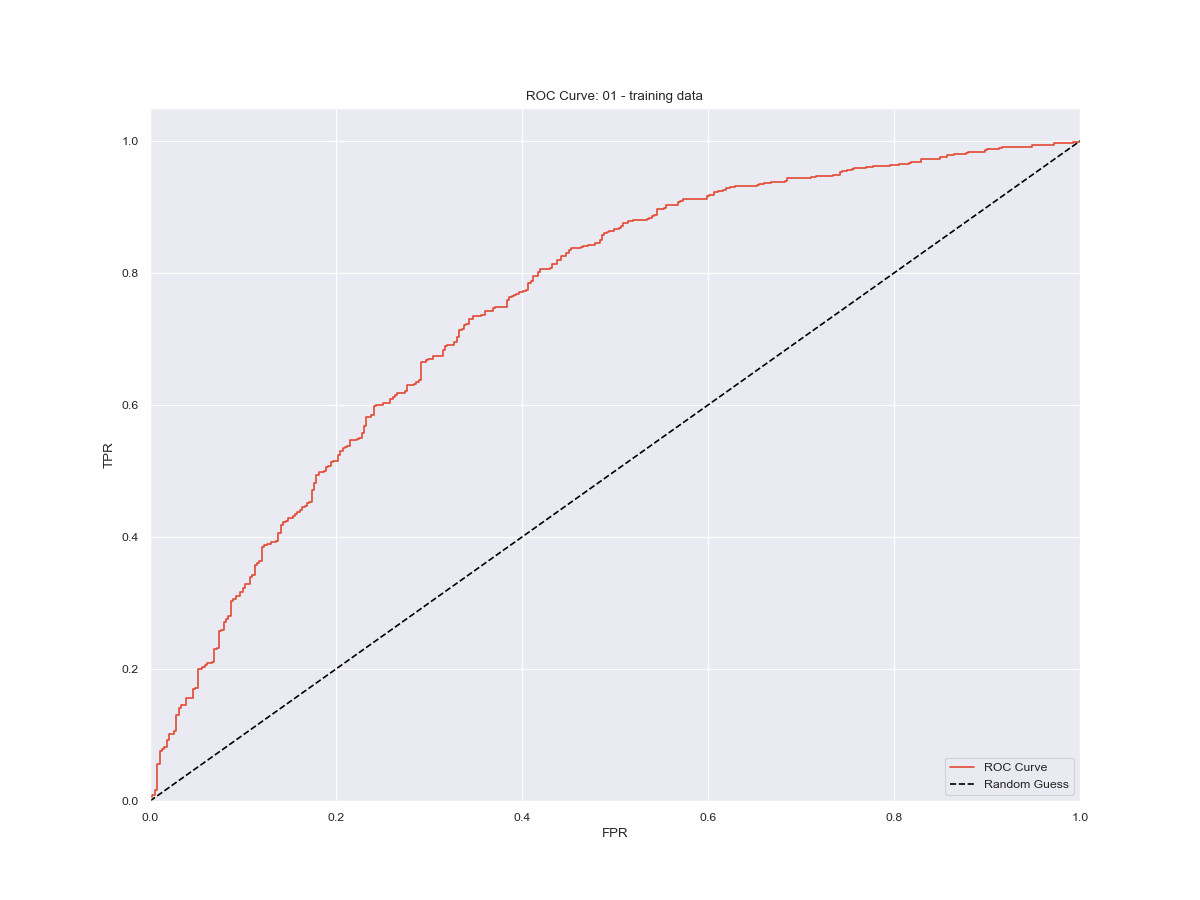
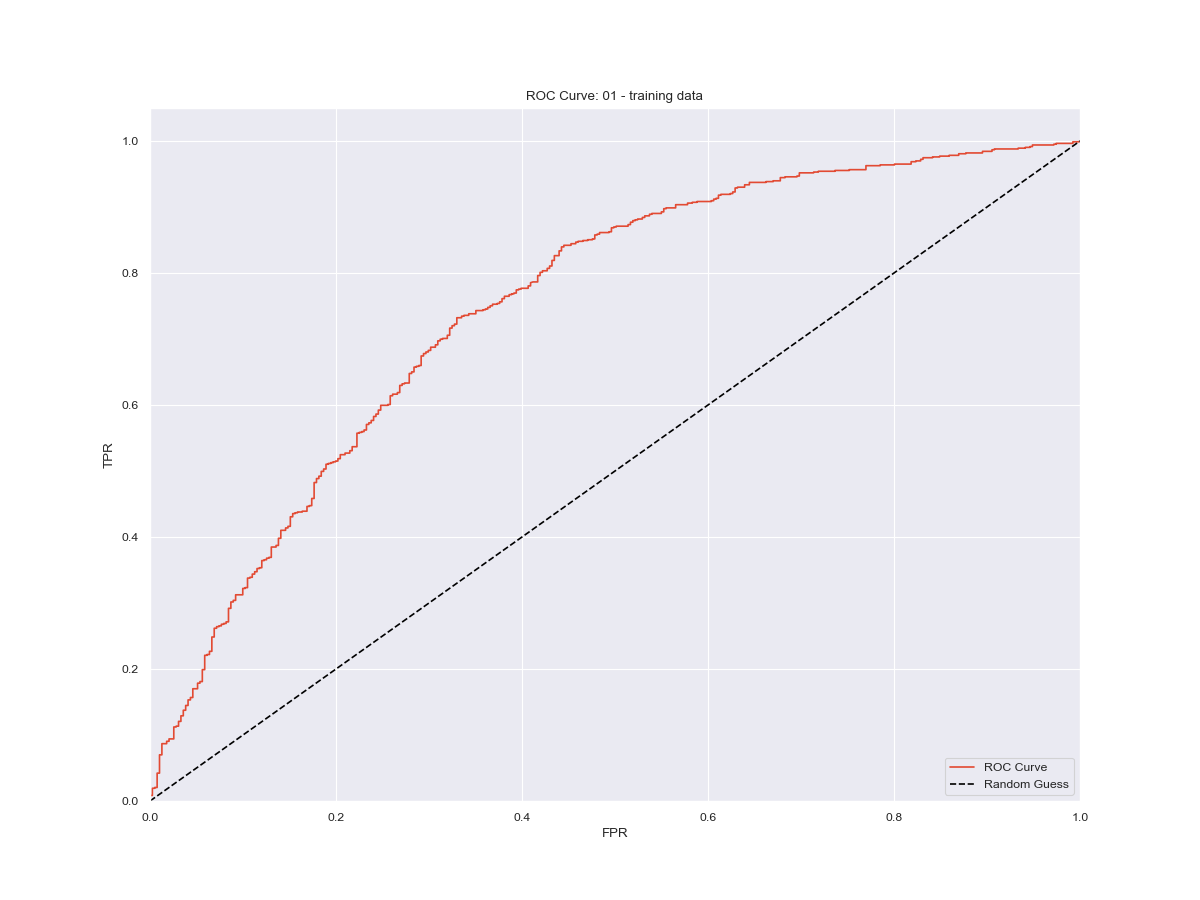
updated research script

diff --git a/scripts/research/phase_03/research_06.py b/scripts/research/phase_03/research_06.py
@@ -36,7 +36,7 @@ RATIOS   = ["NSEI_HL_RATIO", "DJI_HL_RATIO"]
 
 ALL_COLS = COLUMNS + RATIOS + INDICATORS
 
-FEATURES = ["IXIC_DAILY_RETURNS", "HSI_DAILY_RETURNS", "N225_DAILY_RETURNS", "VIX_DAILY_RETURNS", "NSEI_RSI"]
+FEATURES = ["IXIC_DAILY_RETURNS", "HSI_DAILY_RETURNS", "N225_DAILY_RETURNS", "VIX_DAILY_RETURNS", "DJI_RSI"]
 
 
 # %% 2 -
@@ -115,14 +115,14 @@ plt.roc_curve(fpr, tpr, "06_01", "01 - training data", "phase_03")
 # %% 9 - Optimal Threshold
 optimal_threshold = round(thresholds[np.argmax(tpr - fpr)], 3)
 print(f'Best Threshold is : {optimal_threshold}')
-# Best Threshold is : 0.678
+# Best Threshold is : 0.687
 
 
 
 # %% 10 - AUC Curve
 auc_roc = roc_auc_score(y_train, y_predprob[:, 1])
 print(f'AUC ROC: {auc_roc}')
-# AUC ROC: 0.7493606138107417
+# AUC ROC: 0.7507072583058503
 
 
 
@@ -131,12 +131,12 @@ X_train['predicted_class'] = np.where(y_predprob[:, 1] <= optimal_threshold,  0,
 print(classification_report(y_train, X_train['predicted_class']))
 #               precision    recall  f1-score   support
 # 
-#          0.0       0.53      0.66      0.59       391
+#          0.0       0.54      0.67      0.60       391
 #          1.0       0.82      0.73      0.77       829
 # 
 #     accuracy                           0.71      1220
-#    macro avg       0.68      0.69      0.68      1220
-# weighted avg       0.73      0.71      0.71      1220
+#    macro avg       0.68      0.70      0.69      1220
+# weighted avg       0.73      0.71      0.72      1220
 
 
 
@@ -145,8 +145,8 @@ table = pd.crosstab(X_train['predicted_class'], y_train)
 table
 # NSEI_OPEN_DIR    0.0  1.0
 # predicted_class          
-# 0                257  224
-# 1                134  605
+# 0                262  224
+# 1                129  605
 
 
 
@@ -157,7 +157,7 @@ print(f"Sensitivity for cut-off {optimal_threshold} is : {sensitivity}%")
 
 specificity = round((table.iloc[0, 0] / (table.iloc[0, 0] + table.iloc[1, 0])) * 100, 2)
 print(f"Specificity for cut-off {optimal_threshold} is : {specificity}%")
-# Specificity for cut-off 0.63 is : 65.73%
+# Specificity for cut-off 0.63 is : 67.01%
 
 
 
@@ -175,7 +175,7 @@ plt.roc_curve(fpr, tpr, "06_02", "02 - testing data", "phase_03")
 # %% 13 - AUC Curve
 auc_roc = roc_auc_score(y_test, y_predprob[:, 1])
 print(f'AUC ROC: {auc_roc}')
-# AUC ROC: 0.7592684377478192
+# AUC ROC: 0.7495539254559873
 
 
 
@@ -184,12 +184,12 @@ X_test['predicted_class'] = np.where(y_predprob[:, 1] <= optimal_threshold,  0, 
 print(classification_report(y_test, X_test['predicted_class']))
 #               precision    recall  f1-score   support
 # 
-#          0.0       0.54      0.67      0.60        97
-#          1.0       0.83      0.73      0.78       208
+#          0.0       0.52      0.67      0.59        97
+#          1.0       0.82      0.72      0.77       208
 # 
-#     accuracy                           0.71       305
-#    macro avg       0.68      0.70      0.69       305
-# weighted avg       0.73      0.71      0.72       305
+#     accuracy                           0.70       305
+#    macro avg       0.67      0.69      0.68       305
+# weighted avg       0.73      0.70      0.71       305
 
 
 
@@ -198,15 +198,15 @@ table = pd.crosstab(X_test['predicted_class'], y_test)
 table
 # NSEI_OPEN_DIR    0.0  1.0
 # predicted_class          
-# 0                 65   56
-# 1                 32  152
+# 0                 65   59
+# 1                 32  149
 
 
 
 # %% 11 - 
 sensitivity = round((table.iloc[1, 1] / (table.iloc[0, 1] + table.iloc[1, 1])) * 100, 2)
 print(f"Sensitivity for cut-off {optimal_threshold} is : {sensitivity}%")
-# Sensitivity for cut-off 0.63 is : 73.08%
+# Sensitivity for cut-off 0.63 is : 71.63%
 
 specificity = round((table.iloc[0, 0] / (table.iloc[0, 0] + table.iloc[1, 0])) * 100, 2)
 print(f"Specificity for cut-off {optimal_threshold} is : {specificity}%")
